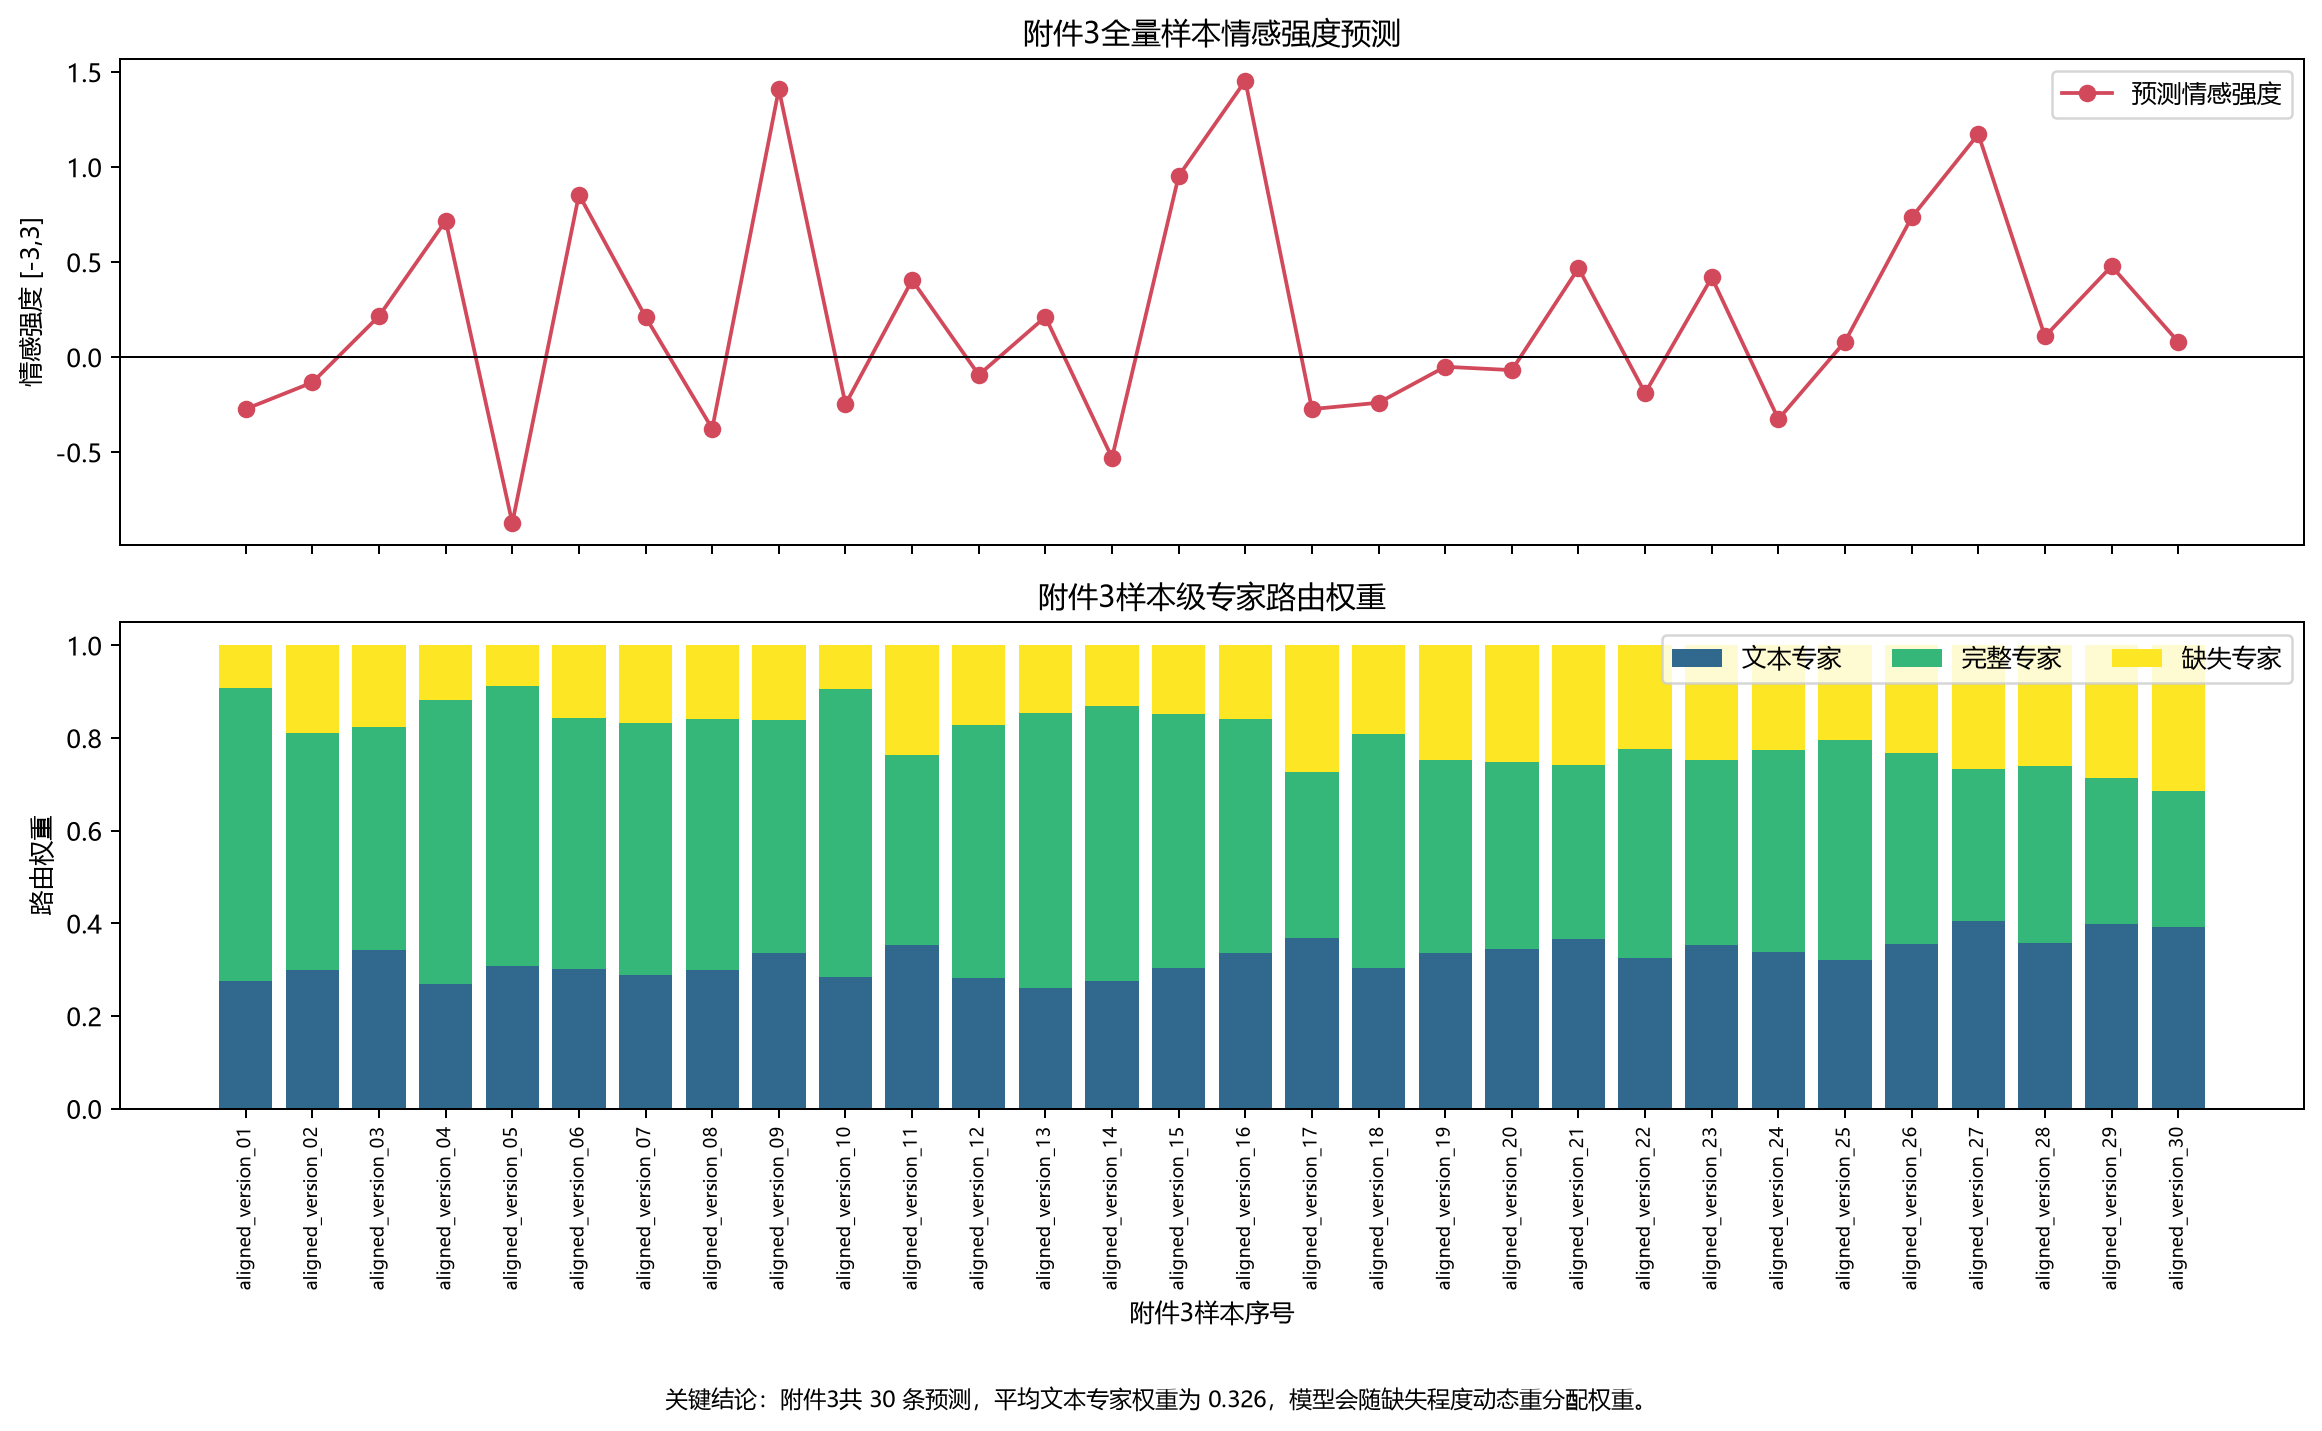
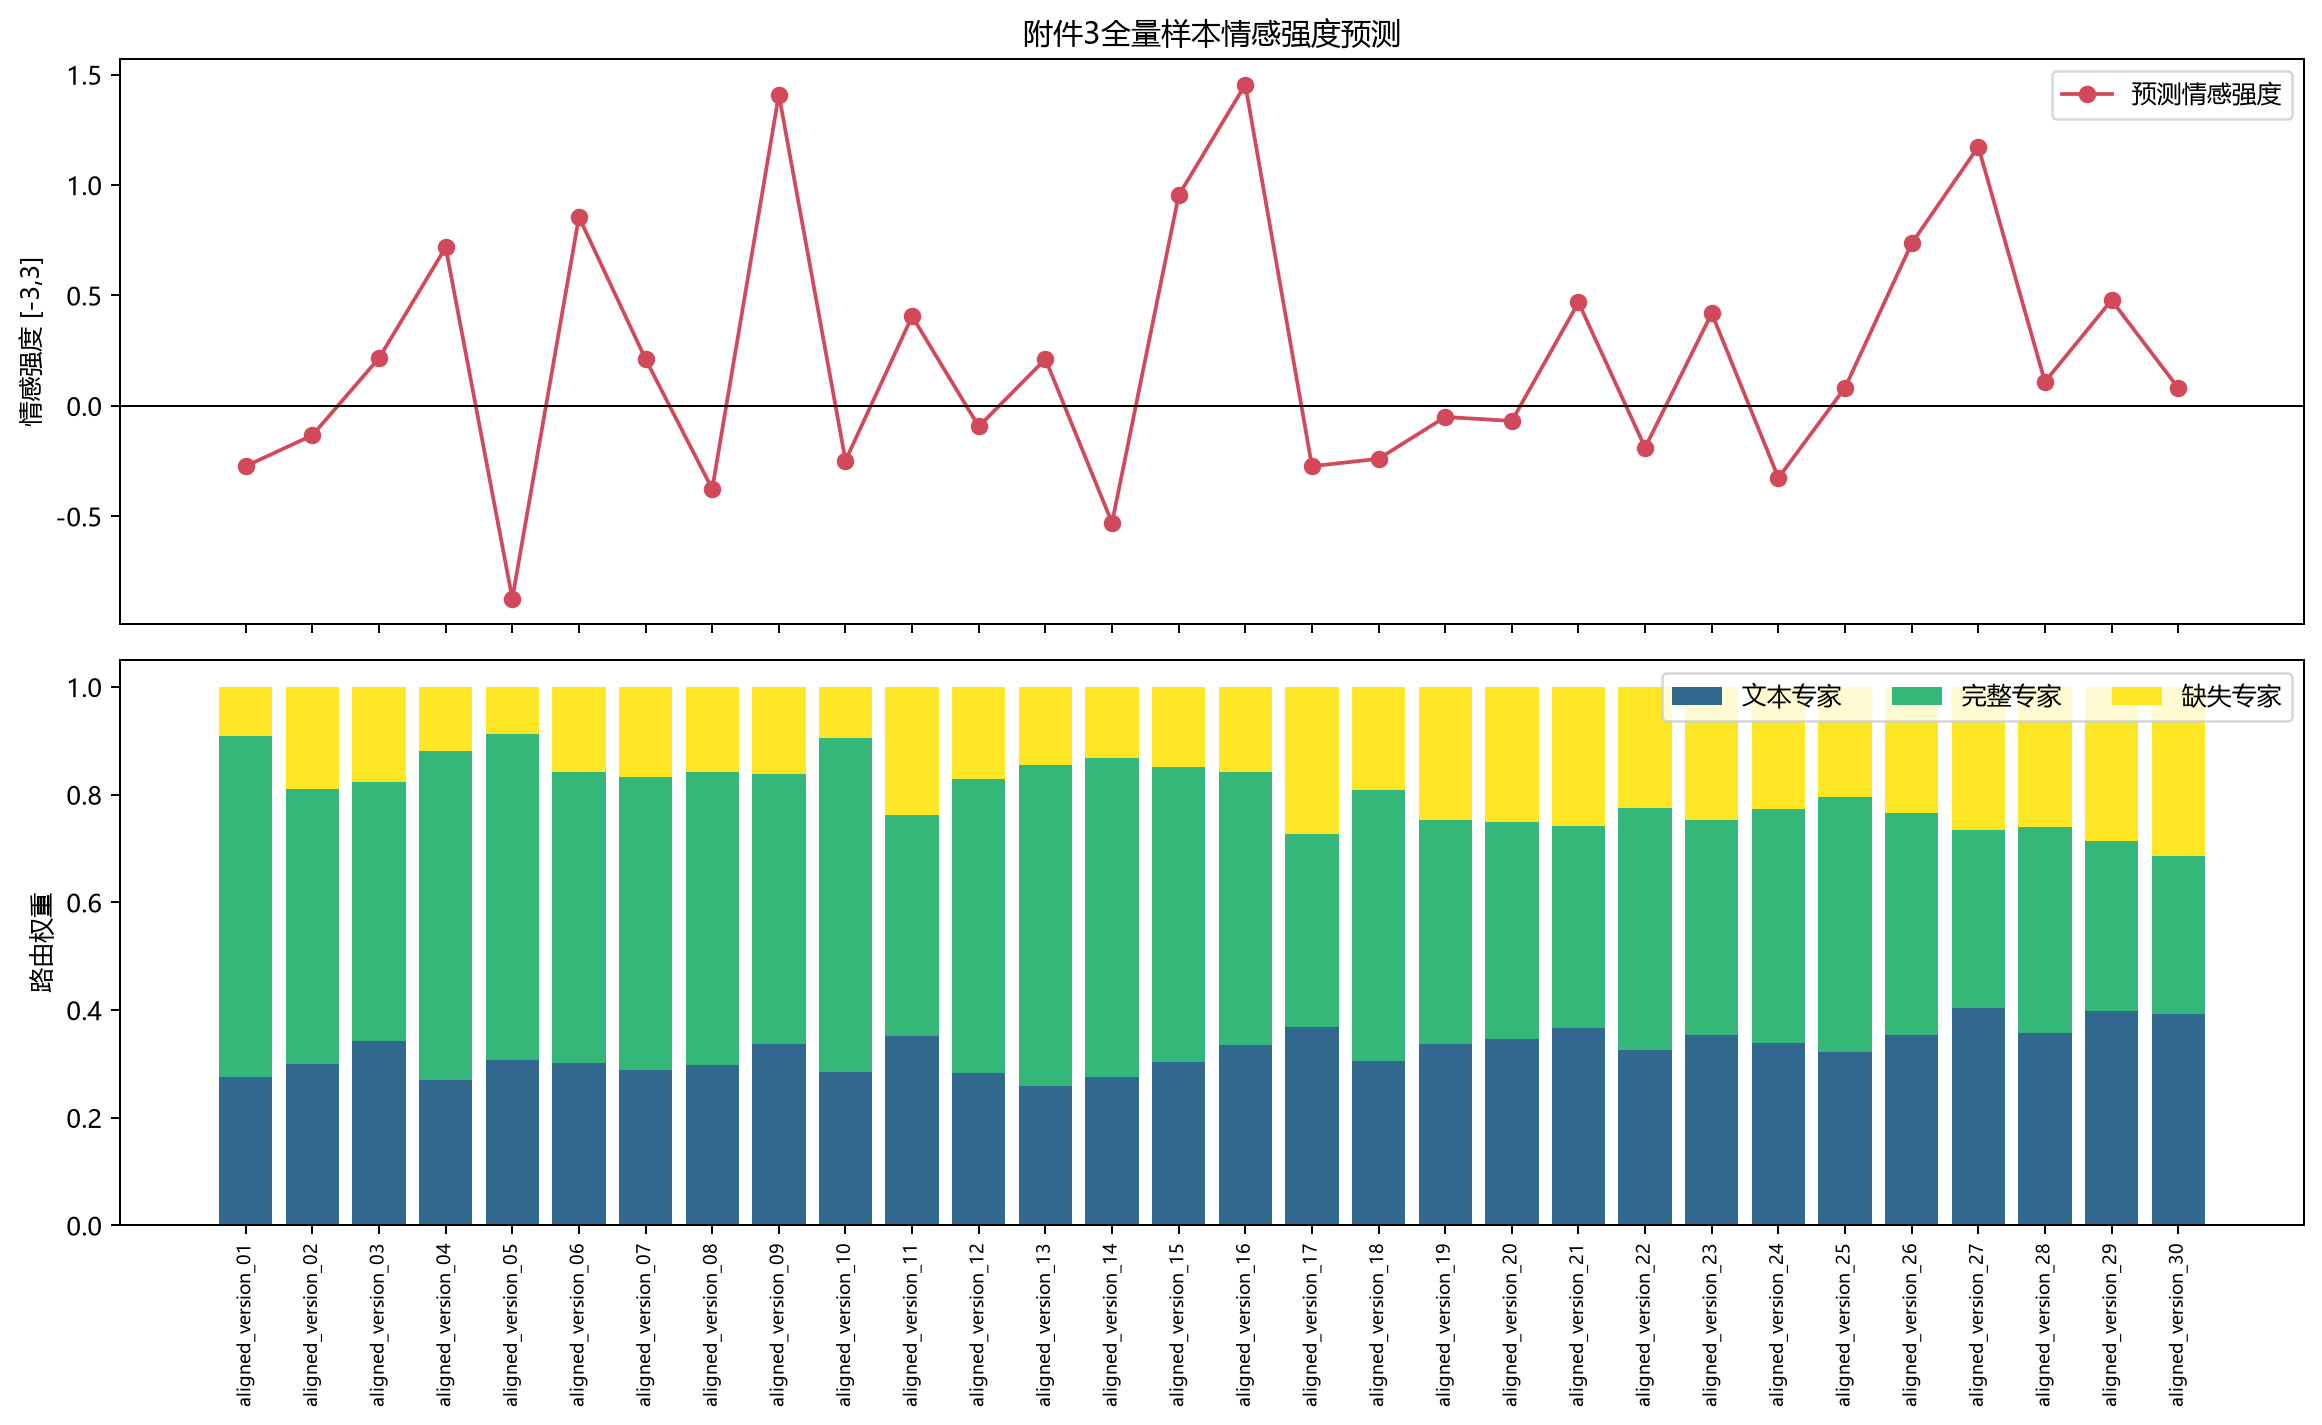
完成问题二所有图片优化

diff --git a/src/problem2/visualization.py b/src/problem2/visualization.py
@@ -20,9 +20,8 @@ def configure_matplotlib() -> None:
     plt.rcParams["savefig.dpi"] = 180
 
 
-def _save(fig: plt.Figure, path: Path, conclusion: str) -> None:
-    fig.text(0.5, 0.012, f"关键结论：{conclusion}", ha="center", va="bottom", fontsize=9)
-    fig.tight_layout(rect=(0, 0.055, 1, 1))
+def _save(fig: plt.Figure, path: Path) -> None:
+    fig.tight_layout()
     fig.savefig(path, bbox_inches="tight")
     plt.close(fig)
 
@@ -48,9 +47,9 @@ def plot_training_history(history: pd.DataFrame, path: Path) -> None:
     axes[1, 0].legend()
     axes[1, 1].plot(student["epoch"], student["train_supervised"], label="监督损失")
     axes[1, 1].plot(student["epoch"], student["train_distillation"], label="蒸馏损失")
-    axes[1, 1].set(title="学生损失分解", xlabel="Epoch", ylabel="Loss")
+    axes[1, 1].set(title="学生监督与蒸馏损失", xlabel="Epoch", ylabel="损失分量")
     axes[1, 1].legend()
-    _save(fig, path, "完整性能与缺失性能共同用于早停，防止仅优化无缺失样本。")
+    _save(fig, path)
 
 
 def plot_robustness_curves(frame: pd.DataFrame, path: Path, primary_position: str = "middle") -> None:
@@ -67,8 +66,7 @@ def plot_robustness_curves(frame: pd.DataFrame, path: Path, primary_position: st
     for axis in axes:
         axis.grid(alpha=0.25)
         axis.legend()
-    worst = data.loc[data["macro_f1"].idxmin()]
-    _save(fig, path, f"最弱分类场景为 {worst['pattern']}、缺失率 {worst['missing_rate']:.0%}，Macro-F1={worst['macro_f1']:.3f}。")
+    _save(fig, path)
 
 
 def plot_position_effect(frame: pd.DataFrame, path: Path) -> None:
@@ -84,8 +82,7 @@ def plot_position_effect(frame: pd.DataFrame, path: Path) -> None:
         axis.set_xticks(x, data["position"])
         axis.set(title=title, xlabel="连续缺失位置", ylabel=ylabel)
         axis.grid(axis="y", alpha=0.25)
-    worst = data.loc[data["macro_f1_drop"].idxmax()]
-    _save(fig, path, f"平均而言 {worst['position']} 缺失对分类影响最大，F1 平均下降 {worst['macro_f1_drop']:.3f}。")
+    _save(fig, path)
 
 
 def plot_ablation(frame: pd.DataFrame, path: Path) -> None:
@@ -107,8 +104,7 @@ def plot_ablation(frame: pd.DataFrame, path: Path) -> None:
         axis.set_xticks(x, tick_labels, rotation=18, ha="right")
         axis.set(title=title, xlabel="模型变体", ylabel=ylabel)
         axis.grid(axis="y", alpha=0.25)
-    full = data[data["variant"] == "student_full"].iloc[0]
-    _save(fig, path, f"完整学生在代表性缺失场景下取得 F1={full['macro_f1']:.3f}、MAE={full['mae']:.3f}。")
+    _save(fig, path)
 
 
 def plot_confusion_and_regression(result: dict[str, Any], path: Path, split_name: str) -> None:
@@ -127,8 +123,7 @@ def plot_confusion_and_regression(result: dict[str, Any], path: Path, split_name
     axes[1].plot([-3, 3], [-3, 3], linestyle="--", color="#D1495B", label="理想预测")
     axes[1].set(title=f"{split_name}情感强度预测", xlabel="真实情感强度", ylabel="预测情感强度", xlim=(-3.1, 3.1), ylim=(-3.1, 3.1))
     axes[1].legend()
-    metrics = result["metrics"]
-    _save(fig, path, f"{split_name} Accuracy={metrics['accuracy']:.3f}、F1={metrics['macro_f1']:.3f}、MAE={metrics['mae']:.3f}、Pearson={metrics['pearson']:.3f}。")
+    _save(fig, path)
 
 
 def plot_challenge_predictions(frame: pd.DataFrame, path: Path) -> None:
@@ -143,8 +138,7 @@ def plot_challenge_predictions(frame: pd.DataFrame, path: Path) -> None:
     for key, label, color in (("gate_text_expert", "文本专家", COLORS["text"]), ("gate_full_expert", "完整专家", COLORS["audio"]), ("gate_missing_expert", "缺失专家", COLORS["vision"])):
         axes[1].bar(x, frame[key], bottom=bottom, label=label, color=color)
         bottom += frame[key].to_numpy()
-    axes[1].set(title="附件3样本级专家路由权重", xlabel="附件3样本序号", ylabel="路由权重")
+    axes[1].set(ylabel="路由权重")
     axes[1].legend(ncol=3)
     axes[1].set_xticks(x, frame["sample_id"], rotation=90, fontsize=7)
-    text_dominance = float(frame["gate_text_expert"].mean())
-    _save(fig, path, f"附件3共 {len(frame)} 条预测，平均文本专家权重为 {text_dominance:.3f}，模型会随缺失程度动态重分配权重。")
+    _save(fig, path)
